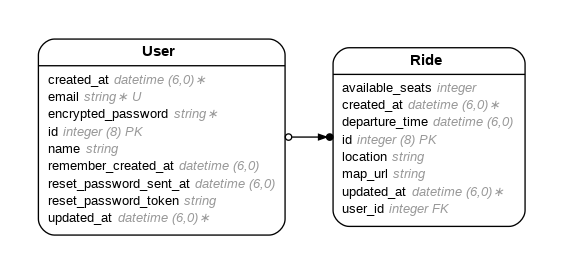
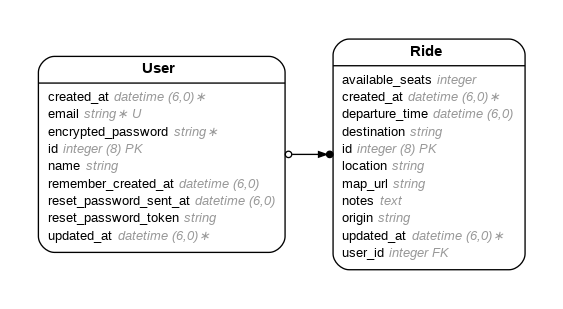
my second commit

diff --git a/app/controllers/rides_controller.rb b/app/controllers/rides_controller.rb
@@ -18,17 +18,13 @@ class RidesController < ApplicationController
   end
 
   def create
-    @ride = Ride.new
+    @ride = Ride.new(ride_params)
     @ride.user_id = current_user.id
-    @ride.location = params.fetch("location")
-    @ride.departure_time = params.fetch("departure_time")
-    @ride.map_url = params.fetch("map_url")
-    @ride.available_seats = params.fetch("available_seats")
 
     if @ride.save
       redirect_to("/rides/#{@ride.id}", notice: "Ride posted successfully!")
     else
-      redirect_to("/rides", alert: "Ride failed to post.")
+      render :new, alert: "Ride failed to post."
     end
   end
 
@@ -40,5 +36,17 @@ class RidesController < ApplicationController
     else
       redirect_to("/rides", alert: "Not authorized to delete this ride.")
     end
+  end
+
+  private
+
+  def ride_params
+    params.require(:ride).permit(
+      :origin,
+      :destination,
+      :departure_time,
+      :available_seats,
+      :notes
+    )
   end
 end

diff --git a/db/schema.rb b/db/schema.rb
@@ -10,7 +10,7 @@
 #
 # It's strongly recommended that you check this file into your version control system.
 
-ActiveRecord::Schema[7.1].define(version: 2025_05_27_024900) do
+ActiveRecord::Schema[7.1].define(version: 2025_05_27_030720) do
   # These are extensions that must be enabled in order to support this database
   enable_extension "plpgsql"
 
@@ -22,6 +22,9 @@ ActiveRecord::Schema[7.1].define(version: 2025_05_27_024900) do
     t.integer "available_seats"
     t.datetime "created_at", null: false
     t.datetime "updated_at", null: false
+    t.string "origin"
+    t.string "destination"
+    t.text "notes"
   end
 
   create_table "users", force: :cascade do |t|

diff --git a/app/models/ride.rb b/app/models/ride.rb
@@ -5,8 +5,11 @@
 #  id              :bigint           not null, primary key
 #  available_seats :integer
 #  departure_time  :datetime
+#  destination     :string
 #  location        :string
 #  map_url         :string
+#  notes           :text
+#  origin          :string
 #  created_at      :datetime         not null
 #  updated_at      :datetime         not null
 #  user_id         :integer

diff --git a/app/controllers/ride_participants_controller.rb b/app/controllers/ride_participants_controller.rb
@@ -9,7 +9,7 @@ class RideParticipantsController < ApplicationController
 
   def destroy
     ride_participant = current_user.ride_participants.find_by(ride_id: params[:ride_id])
-    ride_participant.destroy
+    ride_participant.destroy if ride_participant.present?
     redirect_to ride_path(params[:ride_id]), notice: "You left the ride."
   end
 end

diff --git a/db/migrate/20250527030540_add_origin_and_destination_to_rides.rb b/db/migrate/20250527030540_add_origin_and_destination_to_rides.rb
@@ -1,0 +1,6 @@
+class AddOriginAndDestinationToRides < ActiveRecord::Migration[7.1]
+  def change
+    add_column :rides, :origin, :string
+    add_column :rides, :destination, :string
+  end
+end

diff --git a/db/migrate/20250527030720_add_notes_to_rides.rb b/db/migrate/20250527030720_add_notes_to_rides.rb
@@ -1,0 +1,5 @@
+class AddNotesToRides < ActiveRecord::Migration[7.1]
+  def change
+    add_column :rides, :notes, :text
+  end
+end

diff --git a/app/models/ride_participant.rb b/app/models/ride_participant.rb
@@ -1,0 +1,5 @@
+class RideParticipant < ApplicationRecord
+  belongs_to :user
+  belongs_to :ride
+end
+
